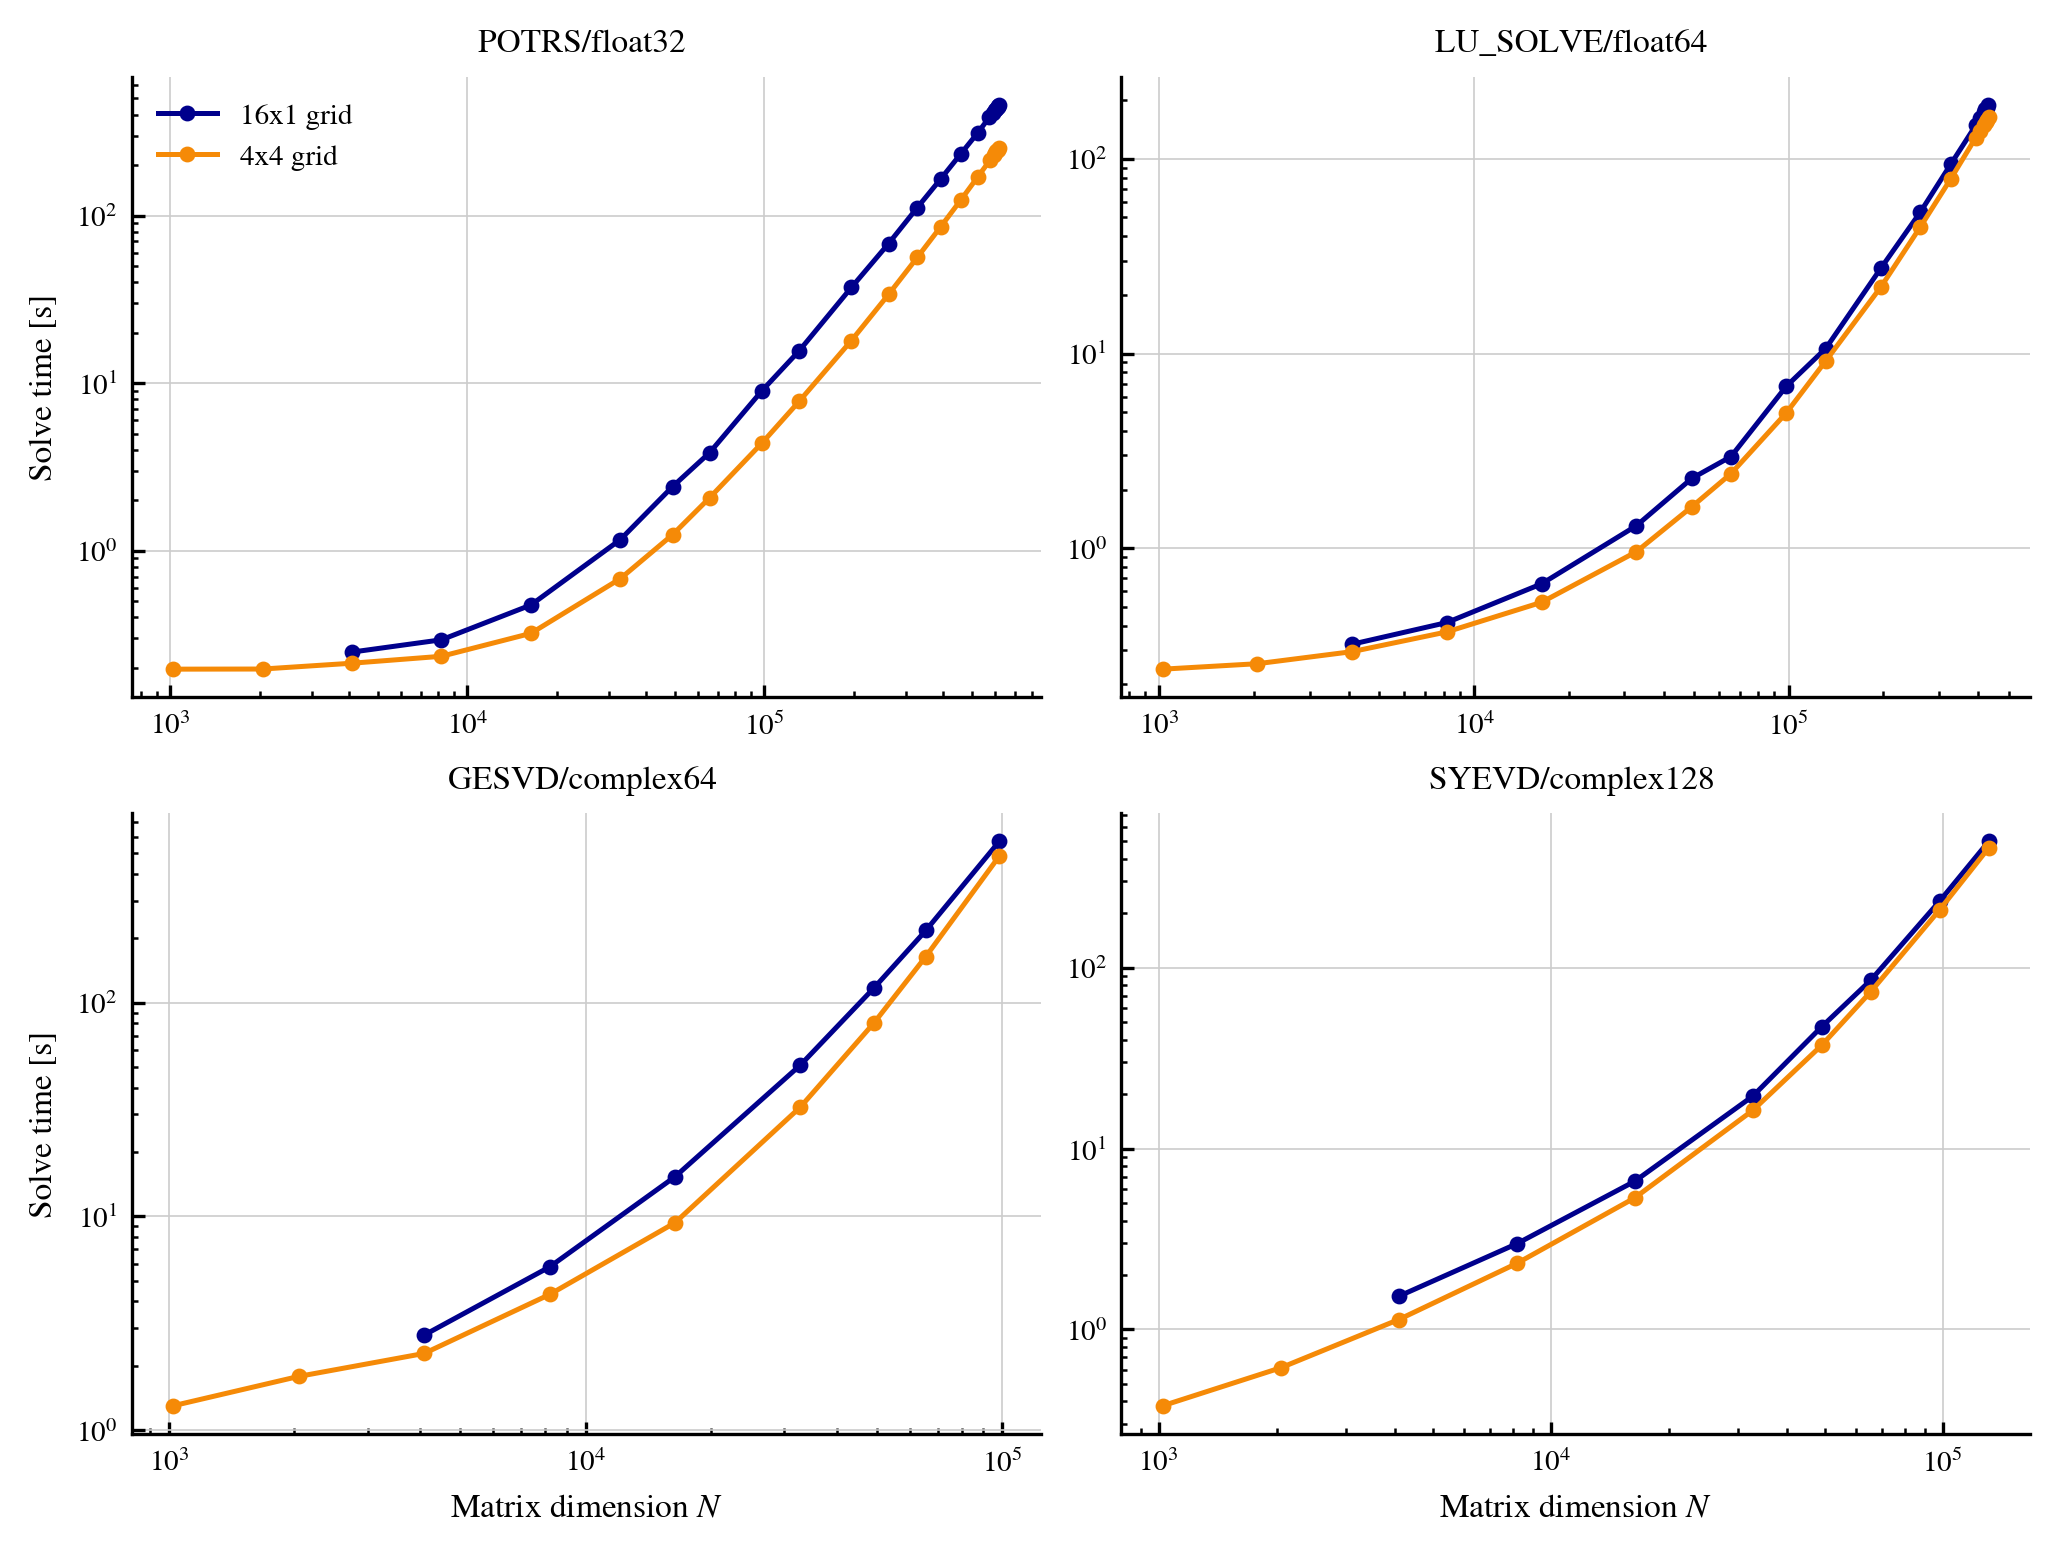
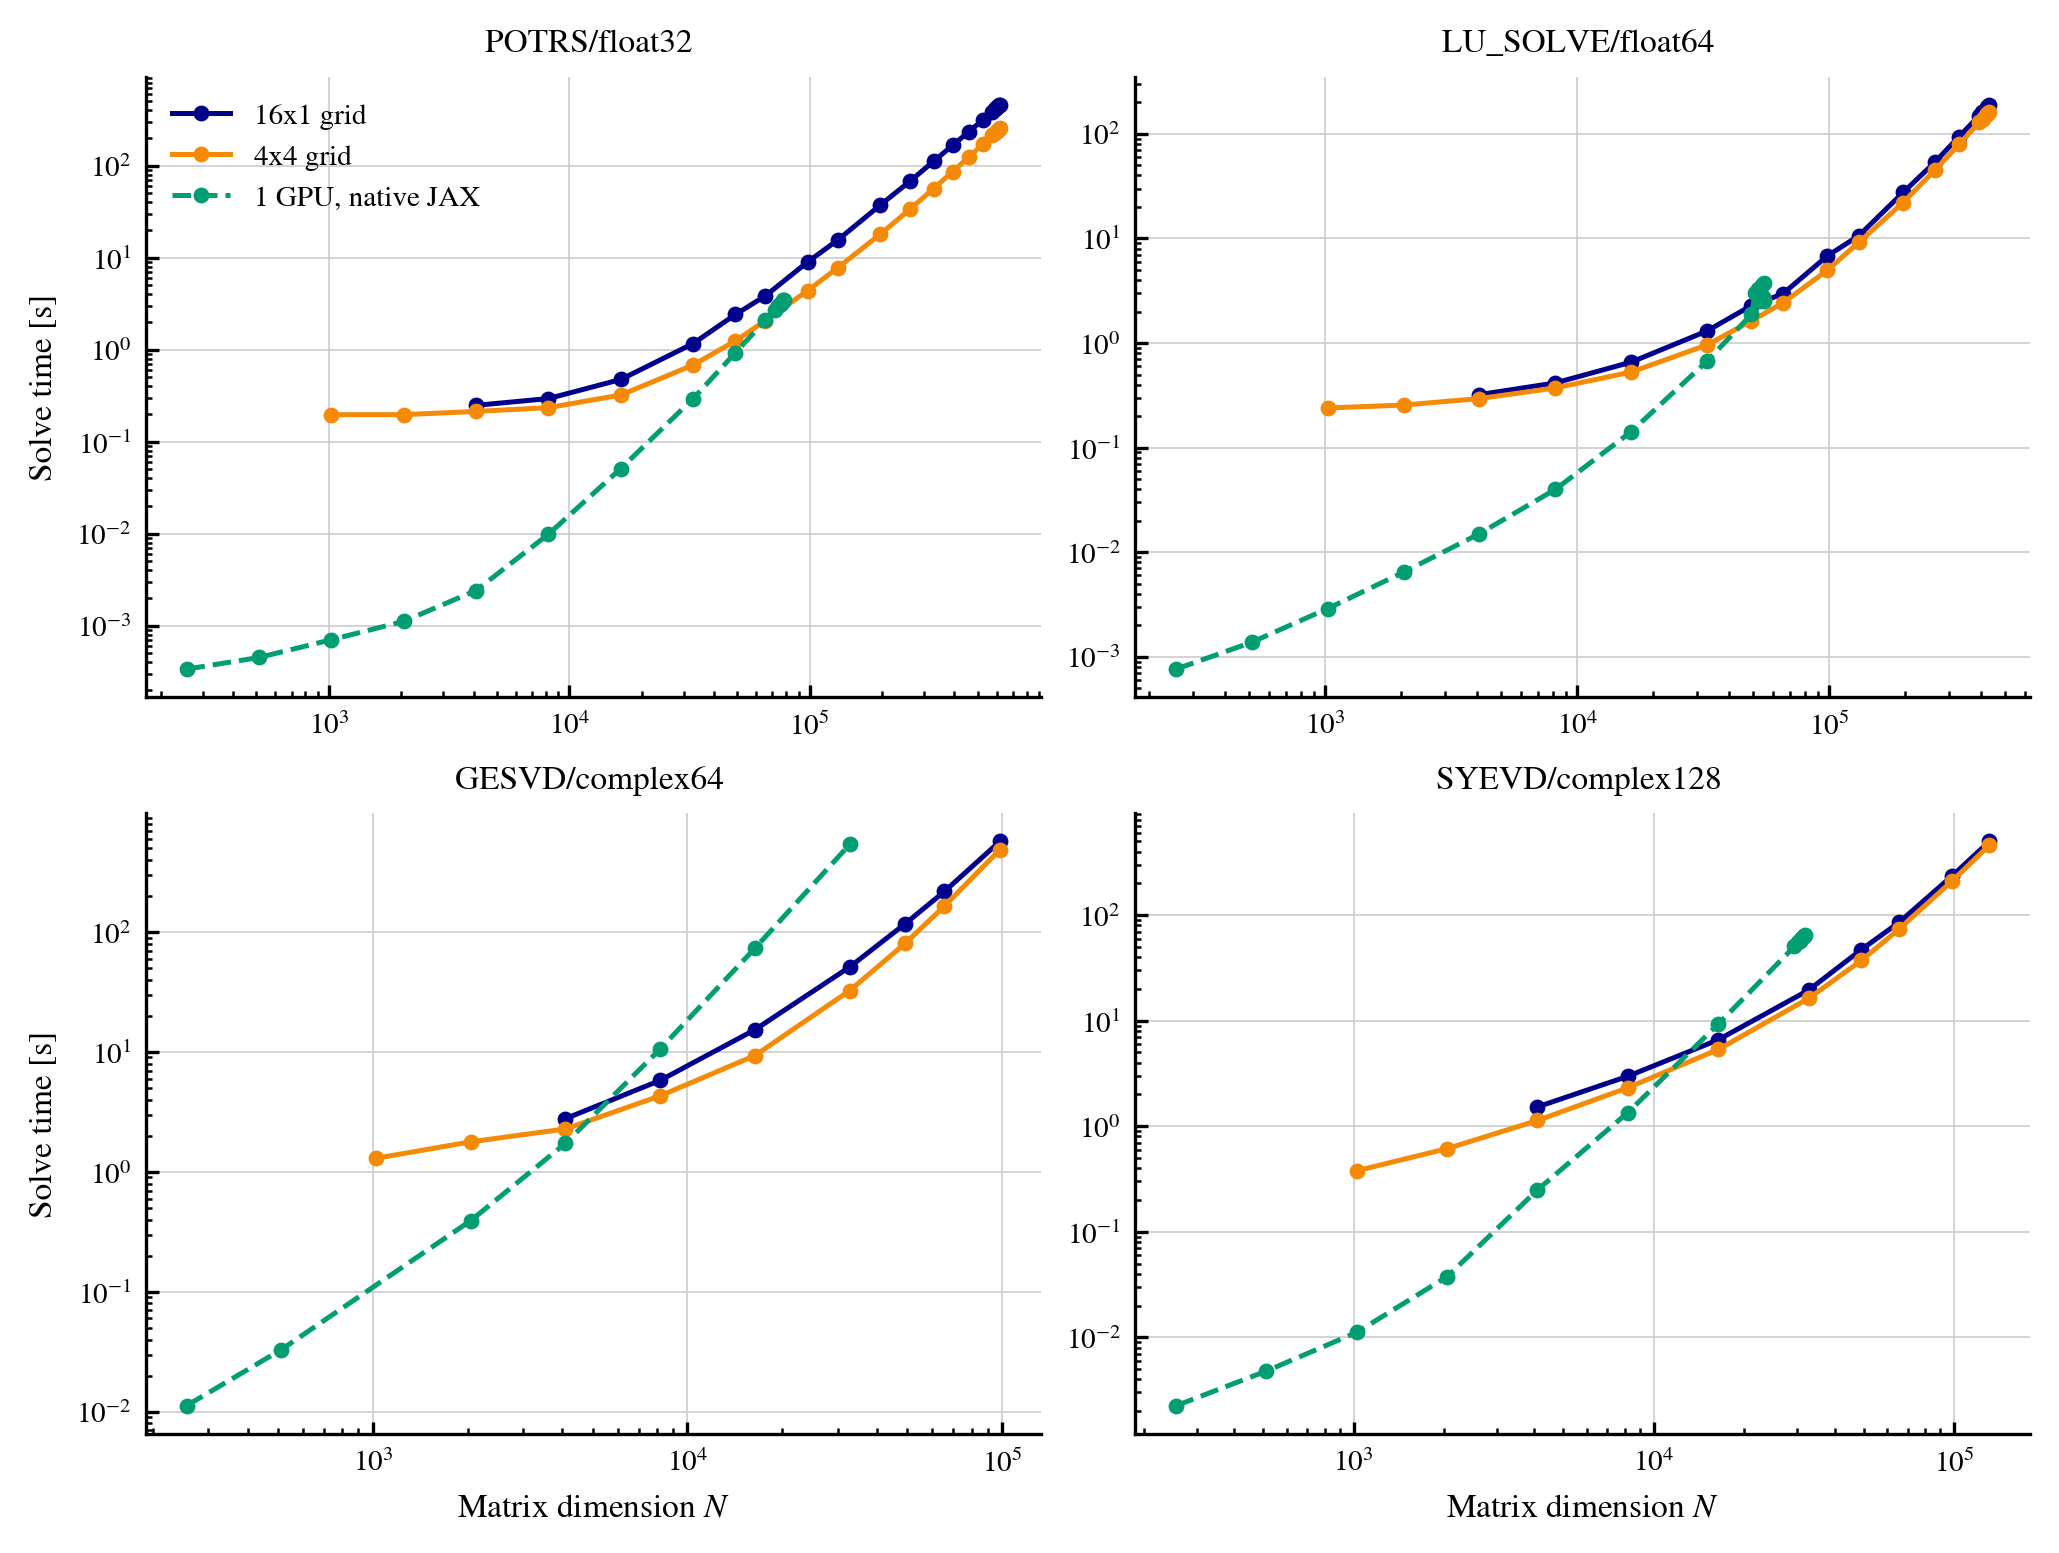
update figures

diff --git a/paper/paper.md b/paper/paper.md
@@ -113,7 +113,7 @@ out = potrs(A, b, T_A=T_A, mesh=mesh, matrix_specs=P("pr", "pc"))
 
 The tile size $T_A$ is user-configurable and controls the trade-off between memory usage and
 performance; larger tiles typically improve throughput once the problem is sufficiently large
-(see Figure \ref{fig:benchmark}).
+(see Figure \ref{fig:tile_sweep}).
 
 ## Memory-efficient data redistribution
 
@@ -200,18 +200,6 @@ JAXMg is integrated in the latest version of NetKet [@netket3:2022].
 
 Across computational electromagnetics, general linear solves are central to antenna simulations that model electromagnetic fields and their interaction with complex structures through numerical solutions of Maxwell's equations. A common approach is the method of moments [@Harrington1993], in which the governing integral equations are discretized to produce the dense complex system $ZI=V$, where $Z$ is the impedance matrix, $I$ contains the unknown current coefficients, and $V$ represents one or more excitations. Recovering the current coefficients therefore requires solving this general nonsingular system. One application in which this becomes computationally demanding is the full-wave simulation of mutual coupling across the 320-element core of the Hydrogen Epoch of Reionization Array for 21-cm cosmology [@gueuning2026mutual]. As precision requirements drive larger arrays and finer geometric meshes, the number of basis functions and hence the dimensions of $Z$ grow. JAXMg's distributed LU factorization allows the construction of $Z$, the solution of $ZI=V$, and downstream analysis to remain within a single compiled JAX workflow, supporting efficient end-to-end simulation at increasing model fidelity.
 
-
-### Symmetric eigendecomposition (`syevd`)
-
-The time-dependent variational principle (TDVP) projects Schrödinger evolution onto the tangent space of a parameterized quantum state, producing equations of motion of the form [@Carleo2017,@Schmitt2020QuantumDynamics]
-
-$$
-\dot{\boldsymbol{\theta}}
-= -i\mathbf{S}^+ \mathbf{F},
-$$
-
-where $\mathbf{S}$ and $\mathbf{F}$ are the same objects as in the Cholesky-solve section. In practical time-dependent variational Monte Carlo calculations, redundant parameters, gauge directions, and Monte Carlo noise can make $\mathbf{S}$ singular or severely ill-conditioned. An eigendecomposition $\mathbf{S}=\mathbf{V}\boldsymbol{\Lambda}\mathbf{V}^{\dagger}$ exposes these directions and permits stable spectral regularization, for example by discarding eigenvalues below a threshold or replacing $\boldsymbol{\Lambda}^{-1}$ with a smooth pseudoinverse. Since the decomposition may be required at every stage of an ODE integrator, its memory and computational cost become substantial as the number of variational parameters grows. JAXMg's distributed `syevd` enables full-spectrum regularization and diagnostics to be carried out on matrices exceeding single-GPU memory while keeping state evaluation, Monte Carlo estimation, and time integration inside a compiled JAX program. JAXMg has been used for the t-VMC simulations of [@Wan2026BlurredSampling,@Wiersema2026].
-
 ### Singular-value decomposition (`gesvd`)
 
 Principal component analysis (PCA) uses the singular-value decomposition to identify dominant directions of variation in high-dimensional data. For a centered data matrix $X\in\mathbb{R}^{N_{\mathrm{samples}}\times N_{\mathrm{features}}}$,
@@ -224,22 +212,35 @@ the columns of $V$ are the principal directions, while $U\Sigma$ contains the co
 
 Singular-value decompositions are a central primitive in tensor-network algorithms for quantum many-body systems [@schollwock2011density; @banuls2023tensor]. After applying a local gate, contracting neighbouring tensors, or enlarging an auxiliary bond, the resulting tensor is reshaped into a matrix and decomposed as $X=U\Sigma V^\mathsf{T}$. Retaining the largest singular values yields the optimal low-rank approximation in the Frobenius norm, controls the tensor-network bond dimension, and provides an estimate of the truncation error through the discarded singular-value weight. The SVD is therefore the backbone of modern tensor network algorithms such as the density matrix renormalization group (DMRG), time-evolving block decimation (TEBD) and approximate contraction schemes for hig-dimensional networks. As the physical dimension and bond dimensions grow, the intermediate matrices entering these decompositions can become considerably larger than the tensors retained after truncation and may exceed the memory of one GPU. JAXMg's distributed `gesvd` allows tensor contractions, reshaping, singular-vector construction, and truncation to remain within a JIT-compiled JAX workflow, supporting tensor-network calculations at larger bond dimensions without exporting arrays to an external distributed solver.
 
+
+
+### Symmetric eigendecomposition (`syevd`)
+
+The time-dependent variational principle (TDVP) projects Schrödinger evolution onto the tangent space of a parameterized quantum state, producing equations of motion of the form [@Carleo2017,@Schmitt2020QuantumDynamics]
+
+$$
+\dot{\boldsymbol{\theta}}
+= -i\mathbf{S}^+ \mathbf{F},
+$$
+
+where $\mathbf{S}$ and $\mathbf{F}$ are the same objects as in the Cholesky-solve section. In practical time-dependent variational Monte Carlo calculations, redundant parameters, gauge directions, and Monte Carlo noise can make $\mathbf{S}$ singular or severely ill-conditioned. An eigendecomposition $\mathbf{S}=\mathbf{V}\boldsymbol{\Lambda}\mathbf{V}^{\dagger}$ exposes these directions and permits stable spectral regularization, for example by discarding eigenvalues below a threshold or replacing $\boldsymbol{\Lambda}^{-1}$ with a smooth pseudoinverse. Since the decomposition may be required at every stage of an ODE integrator, its memory and computational cost become substantial as the number of variational parameters grows. JAXMg's distributed `syevd` enables full-spectrum regularization and diagnostics to be carried out on matrices exceeding single-GPU memory while keeping state evaluation, Monte Carlo estimation, and time integration inside a compiled JAX program. JAXMg has been used for the t-VMC simulations of [@Wan2026BlurredSampling,@Wiersema2026].
+
 ## Performance and scaling
 
-To assess performance, we benchmark JAXMg against the single-GPU routines currently available in JAX. These simulations are performed on 16 NVIDIA H100s (94 GB VRAM) connected with SXM5 NVLink and 4x 400Gb InfiniBand connections for inter-node communication.
+To assess performance, we benchmark we benchmark two process-grid layouts at fixed GPU count in the large matrix regime. Our setup is 16 NVIDIA H100s (94 GB VRAM), 4 per node, connected with SXM5 NVLink and 4x 400Gb InfiniBand connections for inter-node communication.
 
 We report four representative cases: `potrs` (float32), `lu_solve` (float64), and `gesvd` (complex64) and `syevd` (complex128).
-For `potrs`, `lu_solve` and `syevd`, we use a diagonal matrix $A=\mathrm{diag}(1,\ldots,N)$, and for `potrs` we set $b=(1,\ldots,1)^\mathsf{T}$. For `gesvd`, we use a random Gaussian matrix with mean zero and unit variance.
-
-We set the tile size $T_A=1024$ and report wall-clock timings in \autoref{fig:benchmark}; the benchmark code is available at [@jaxmg_benchmark].
+For `potrs`, `lu_solve` and `syevd`, we use a diagonal matrix $A=\mathrm{diag}(1,\ldots,N)$, and for `potrs` and `lu_solve` we set $b=(1,\ldots,1)^\mathsf{T}$. For `gesvd`, we use a random Gaussian matrix with mean zero and unit variance. We set the tile size $T_A=256$ and report wall-clock timings in \autoref{fig:benchmark}; the benchmark code is available at [@jaxmg_benchmark].
 We see that JAXMg scales better than the native single-GPU linear algebra routines and surpasses them in performance, especially for larger matrices.
-Both `syevd` and `syevd` require significantly more workspace memory than `potrs` and `lu_solve`, which is reflected in the matrix sizes that can be reached.
+Both `gesvd` and `syevd` require significantly more workspace memory than `potrs` and `lu_solve`, which is reflected in the matrix sizes that can be reached.
 
-![Benchmark comparing the native single-GPU JAX routines (which call cuSOLVERDn) to JAXMg. (a) Comparison of `jaxmg.potrs` with `jax.scipy.linalg.cho_factor` + `jax.scipy.linalg.cho_solve` for a float32 matrix. (b) Comparison of `jaxmg.lu_solve` with `jax.numpy.linalg.inv` for a complex128 matrix. (c) Comparison of `jaxmg.gesvd` for(d) Comparison of `jaxmg.syevd` with `jax.numpy.linalg.eigh`.\label{fig:benchmark}](jaxmg_benchmark_v1.png){ width=100% }
+![Wall-clock solve time against matrix dimension $N$ for JAXMg on 16 NVIDIA H100 GPUs, comparing two process-grid layouts at fixed GPU count and fixed tile size $T_A=256$: a $16\times1$ column grid (dark blue) and a $4\times4$ square grid (orange). There are four panels: (a) `jaxmg.potrs` (float32), (b) `jaxmg.lu_solve` (float64), (c) `jaxmg.gesvd` (complex64) and (d) `jaxmg.syevd` (complex128). The square grid is faster in every case, by a geometric mean of $1.77\times$ for `potrs`, $1.38\times$ for `gesvd`, $1.23\times$ for `lu_solve`, and $1.21\times$ for `syevd`. The two matrix decompositions hold more matrix-sized workspace per GPU than the solves and so terminate at markedly smaller $N$.\label{fig:benchmark}](jaxmg_benchmark.png){ width=100% }
 
-![Benchmark comparing the native single-GPU JAX routines (which call cuSOLVERDn) to JAXMg. (a) Comparison of `jaxmg.potrs` with `jax.scipy.linalg.cho_factor` + `jax.scipy.linalg.cho_solve` for a float32 matrix. (b) Comparison of `jaxmg.lu_solve` with `jax.numpy.linalg.inv` for a complex128 matrix. (c) Comparison of `jaxmg.gesvd` for(d) Comparison of `jaxmg.syevd` with `jax.numpy.linalg.eigh`.\label{fig:benchmark}](tile_sweep.png){ width=100% }
+To investigate the effect of the tile size, we sweep the different tile sizes $T_A$ for all routines and report wall-clock timings in \autoref{fig:tile_sweep}; the benchmark code is available at [@jaxmg_benchmark]. While `potrs` clearly benefits from larger tile sizes, the performance of `lu_solve` is unaffected. `syevd` degrades steadily as the tile grows, while `gesvd` is fastest at an intermediate $T_A=1024$ and slower at both smaller and larger tiles.
 
-To test the limits of what JAXMg can do, we performed a Cholesky solve of a matrix of size $N=1499136$ with $T_A=1024$ on 64 NVIDIA H200s (143 GB VRAM) laid out on an 8x8 grid with. Here, we used 8 GPUs per node with SXM5 NVLink and 8x 400Gb InfiniBand connections for inter-node communication. The average solve time was 666.5 seconds, which was approximately 6 times faster than a calculation of similar size on a 64x1 grid.
+![Effect of the tile size on JAXMg wall-clock solve time, for the $4\times4$ process grid on the same 16 NVIDIA H100 GPUs. Each panel draws one curve per $T_A\in\{256,512,1024,2048,4096\}$, shaded light to dark with increasing tile size. There are four panels: (a)`jaxmg.potrs` (float32), (b) `jaxmg.lu_solve` (float64), (c) `jaxmg.gesvd` (complex64) and (d) `jaxmg.syevd` (complex128). Curves for larger $T_A$ begin at larger $N$ because a dimension must be a whole number of tiles along both grid axes.\label{fig:tile_sweep}](tile_sweep.png){ width=100% }
+
+To test the limits of what JAXMg can do, we performed a Cholesky solve of a matrix of size $N=1499136$ with $T_A=1024$ on 64 NVIDIA H200s (143 GB VRAM) laid out on an 8x8 grid, using 8 GPUs per node with SXM5 NVLink and 8x 400Gb InfiniBand connections for inter-node communication. This matrix occupies 8.2 TiB in aggregate device memory, and the warm solve took 654 seconds. At the largest dimension both layouts completed, $N=1310720$, the 8x8 grid was 6.8 times faster than the 64x1 grid, at 452 against 3065 seconds.
 
 These results highlight JAXMg’s primary impact: enabling dense linear solves and eigendecompositions that are bottlenecked by the memory capacity of a single GPU, while remaining within JAX’s composable and JIT-compiled programming model. On modern multi-GPU nodes, distributed in-node solvers make it possible to tackle matrix sizes that would otherwise be infeasible, and to increase throughput by using aggregate device memory and compute.
 
